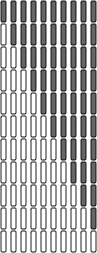
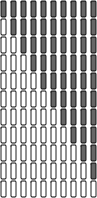
Removed Tap to Continue from Large Panel Updated Lander Select to reflect 5 attributes: - Power - Top Speed - Agility - Toughness - Fuel

diff --git a/vTOL/src/main/java/com/singletongames/vtol/LanderSelectScene.java b/vTOL/src/main/java/com/singletongames/vtol/LanderSelectScene.java
@@ -33,6 +33,7 @@ public class LanderSelectScene extends GameScene {
 	private AnimatedSprite sInfoProgress2;
 	private AnimatedSprite sInfoProgress3;
 	private AnimatedSprite sInfoProgress4;
+    private AnimatedSprite sInfoProgress5;
 	private Text tName;
 	private List<Sprite> landerSprites;
 	private Sprite currentLanderSprite;
@@ -131,20 +132,22 @@ public class LanderSelectScene extends GameScene {
 		tDescription.setAutoWrapWidth(sInfoFrameLeft.getWidth() - 60);
 		tDescription.setPosition(sInfoFrameLeft.getX() + 30, sInfoFrameLeft.getY() + 15);
 		
-		Text attPower = new Text(0, 0, Resources.mFont_Cyan24, "Power", Resources.mEngine.getVertexBufferObjectManager());
-		attPower.setPosition(sInfoFrameRight.getX() + sInfoFrameRight.getWidth()/2 - attPower.getWidth() + 25, sInfoFrameRight.getY() + 15);
-		Text attToughness = new Text(0, 0, Resources.mFont_Cyan24, "Toughness", Resources.mEngine.getVertexBufferObjectManager());
-		attToughness.setPosition(sInfoFrameRight.getX() + sInfoFrameRight.getWidth()/2 - attToughness.getWidth() + 25, attPower.getY() + 25);
-		Text attFuel = new Text(0, 0, Resources.mFont_Cyan24, "Fuel", Resources.mEngine.getVertexBufferObjectManager());
-		attFuel.setPosition(sInfoFrameRight.getX() + sInfoFrameRight.getWidth()/2 - attFuel.getWidth() + 25, attToughness.getY() + 25);
-		Text attWeight = new Text(0, 0, Resources.mFont_Cyan24, "Weight", Resources.mEngine.getVertexBufferObjectManager());
-		attWeight.setPosition(sInfoFrameRight.getX() + sInfoFrameRight.getWidth() / 2 - attWeight.getWidth() + 25, attFuel.getY() + 25);
+		Text attPower = new Text(0, 0, Resources.mFont_Cyan18, "Power", Resources.mEngine.getVertexBufferObjectManager());
+		attPower.setPosition(sInfoFrameRight.getX() + sInfoFrameRight.getWidth()/2 - attPower.getWidth(), sInfoFrameRight.getY() + 18);
+		Text attSpeed = new Text(0, 0, Resources.mFont_Cyan18, "Top Speed", Resources.mEngine.getVertexBufferObjectManager());
+		attSpeed.setPosition(sInfoFrameRight.getX() + sInfoFrameRight.getWidth()/2 - attSpeed.getWidth(), attPower.getY() + 21);
+		Text attHandling = new Text(0, 0, Resources.mFont_Cyan18, "Agility", Resources.mEngine.getVertexBufferObjectManager());
+		attHandling.setPosition(sInfoFrameRight.getX() + sInfoFrameRight.getWidth()/2 - attHandling.getWidth(), attSpeed.getY() + 21);
+		Text attToughness = new Text(0, 0, Resources.mFont_Cyan18, "Toughness", Resources.mEngine.getVertexBufferObjectManager());
+		attToughness.setPosition(sInfoFrameRight.getX() + sInfoFrameRight.getWidth() / 2 - attToughness.getWidth(), attHandling.getY() + 21);
+        Text attFuel = new Text(0, 0, Resources.mFont_Cyan18, "Fuel", Resources.mEngine.getVertexBufferObjectManager());
+        attFuel.setPosition(sInfoFrameRight.getX() + sInfoFrameRight.getWidth() / 2 - attFuel.getWidth(), attToughness.getY() + 21);
 
-        sInfoProgress1 = new AnimatedSprite(sInfoFrameRight.getX() + sInfoFrameRight.getWidth()/2 + 30, sInfoFrameRight.getY() + 25, Resources.LanderSelectInfoProgress, Resources.mEngine.getVertexBufferObjectManager());
-        sInfoProgress2 = new AnimatedSprite(sInfoProgress1.getX(), sInfoProgress1.getY() + 25, Resources.LanderSelectInfoProgress, Resources.mEngine.getVertexBufferObjectManager());
-        sInfoProgress3 = new AnimatedSprite(sInfoProgress1.getX(), sInfoProgress2.getY() + 25, Resources.LanderSelectInfoProgress, Resources.mEngine.getVertexBufferObjectManager());
-        sInfoProgress4 = new AnimatedSprite(sInfoProgress1.getX(), sInfoProgress3.getY() + 25, Resources.LanderSelectInfoProgress, Resources.mEngine.getVertexBufferObjectManager());
-
+        sInfoProgress1 = new AnimatedSprite(sInfoFrameRight.getX() + sInfoFrameRight.getWidth()/2 + 5, sInfoFrameRight.getY() + 23, Resources.LanderSelectInfoProgress, Resources.mEngine.getVertexBufferObjectManager());
+        sInfoProgress2 = new AnimatedSprite(sInfoProgress1.getX(), sInfoProgress1.getY() + 20, Resources.LanderSelectInfoProgress, Resources.mEngine.getVertexBufferObjectManager());
+        sInfoProgress3 = new AnimatedSprite(sInfoProgress1.getX(), sInfoProgress2.getY() + 20, Resources.LanderSelectInfoProgress, Resources.mEngine.getVertexBufferObjectManager());
+        sInfoProgress4 = new AnimatedSprite(sInfoProgress1.getX(), sInfoProgress3.getY() + 20, Resources.LanderSelectInfoProgress, Resources.mEngine.getVertexBufferObjectManager());
+        sInfoProgress5 = new AnimatedSprite(sInfoProgress1.getX(), sInfoProgress4.getY() + 20, Resources.LanderSelectInfoProgress, Resources.mEngine.getVertexBufferObjectManager());
 
         ButtonSprite backButton = new ButtonSprite(40, 40, Resources.PanelBackButton, Resources.mEngine.getVertexBufferObjectManager(), new ButtonSprite.OnClickListener() {
             @Override
@@ -163,14 +166,16 @@ public class LanderSelectScene extends GameScene {
         panelLarge.attachChild(tDescription);
 
         panelLarge.attachChild(attPower);
+        panelLarge.attachChild(attSpeed);
+        panelLarge.attachChild(attHandling);
         panelLarge.attachChild(attToughness);
         panelLarge.attachChild(attFuel);
-        panelLarge.attachChild(attWeight);
 
         panelLarge.attachChild(sInfoProgress1);
         panelLarge.attachChild(sInfoProgress2);
         panelLarge.attachChild(sInfoProgress3);
         panelLarge.attachChild(sInfoProgress4);
+        panelLarge.attachChild(sInfoProgress5);
 
 		panelLarge.attachChild(sArrowLeft);
 		panelLarge.attachChild(sArrowRight);
@@ -219,9 +224,10 @@ public class LanderSelectScene extends GameScene {
 		tDescription.setText(landers.get(Index).getDescription());
 
 		sInfoProgress1.setCurrentTileIndex((int) (landers.get(Index).getPowerPct() * 10f));
-		sInfoProgress2.setCurrentTileIndex((int) (landers.get(Index).getToughnessPct() * 10f));
-		sInfoProgress3.setCurrentTileIndex((int) (landers.get(Index).getFuelCapacityPct() * 10f));
-		sInfoProgress4.setCurrentTileIndex((int) (landers.get(Index).getDensityPct() * 10f));
+		sInfoProgress2.setCurrentTileIndex((int) (landers.get(Index).getSpeedLimitPct() * 10f));
+		sInfoProgress3.setCurrentTileIndex((int) (landers.get(Index).getAgilityPct() * 10f));
+		sInfoProgress4.setCurrentTileIndex((int) (landers.get(Index).getToughnessPct() * 10f));
+        sInfoProgress5.setCurrentTileIndex((int) (landers.get(Index).getFuelCapacityPct() * 10f));
 		
 		//if current lander sprite is not the one we need to show
 		if (!currentLanderSprite.equals(landerSprites.get(Index))){		

diff --git a/vTOL/src/main/java/com/singletongames/vtol/MessageBox.java b/vTOL/src/main/java/com/singletongames/vtol/MessageBox.java
@@ -54,6 +54,10 @@ public class MessageBox {
         tTitle.setPosition(panelRegion.getWidth() / 2 - tTitle.getWidth() / 2, 10);
         sFrame.attachChild(tTitle);
 
+        Text tTapToContinue = new Text(0, 0, Resources.mFont_Cyan24, "Tap to Continue", Resources.mEngine.getVertexBufferObjectManager());
+        tTitle.setPosition(panelRegion.getWidth() / 2 - tTitle.getWidth() / 2, sFrame.getHeight() - 30);
+        sFrame.attachChild(tTapToContinue);
+
 		String[] messages = message.split("\\n");
 		int currentMsgY = messageStartY;
 		int pSpace = 20;

diff --git a/vTOL/src/main/java/com/singletongames/vtol/Resources.java b/vTOL/src/main/java/com/singletongames/vtol/Resources.java
@@ -32,7 +32,7 @@ public class Resources {
 
     public static final boolean SHOW_FPS = false;
     public static boolean DEBUG_DRAW = false;
-	public static boolean ClearPrefernces = true;
+	public static boolean ClearPrefernces = false;
 	
 	public static int TrainingProgress = 0;
 	
